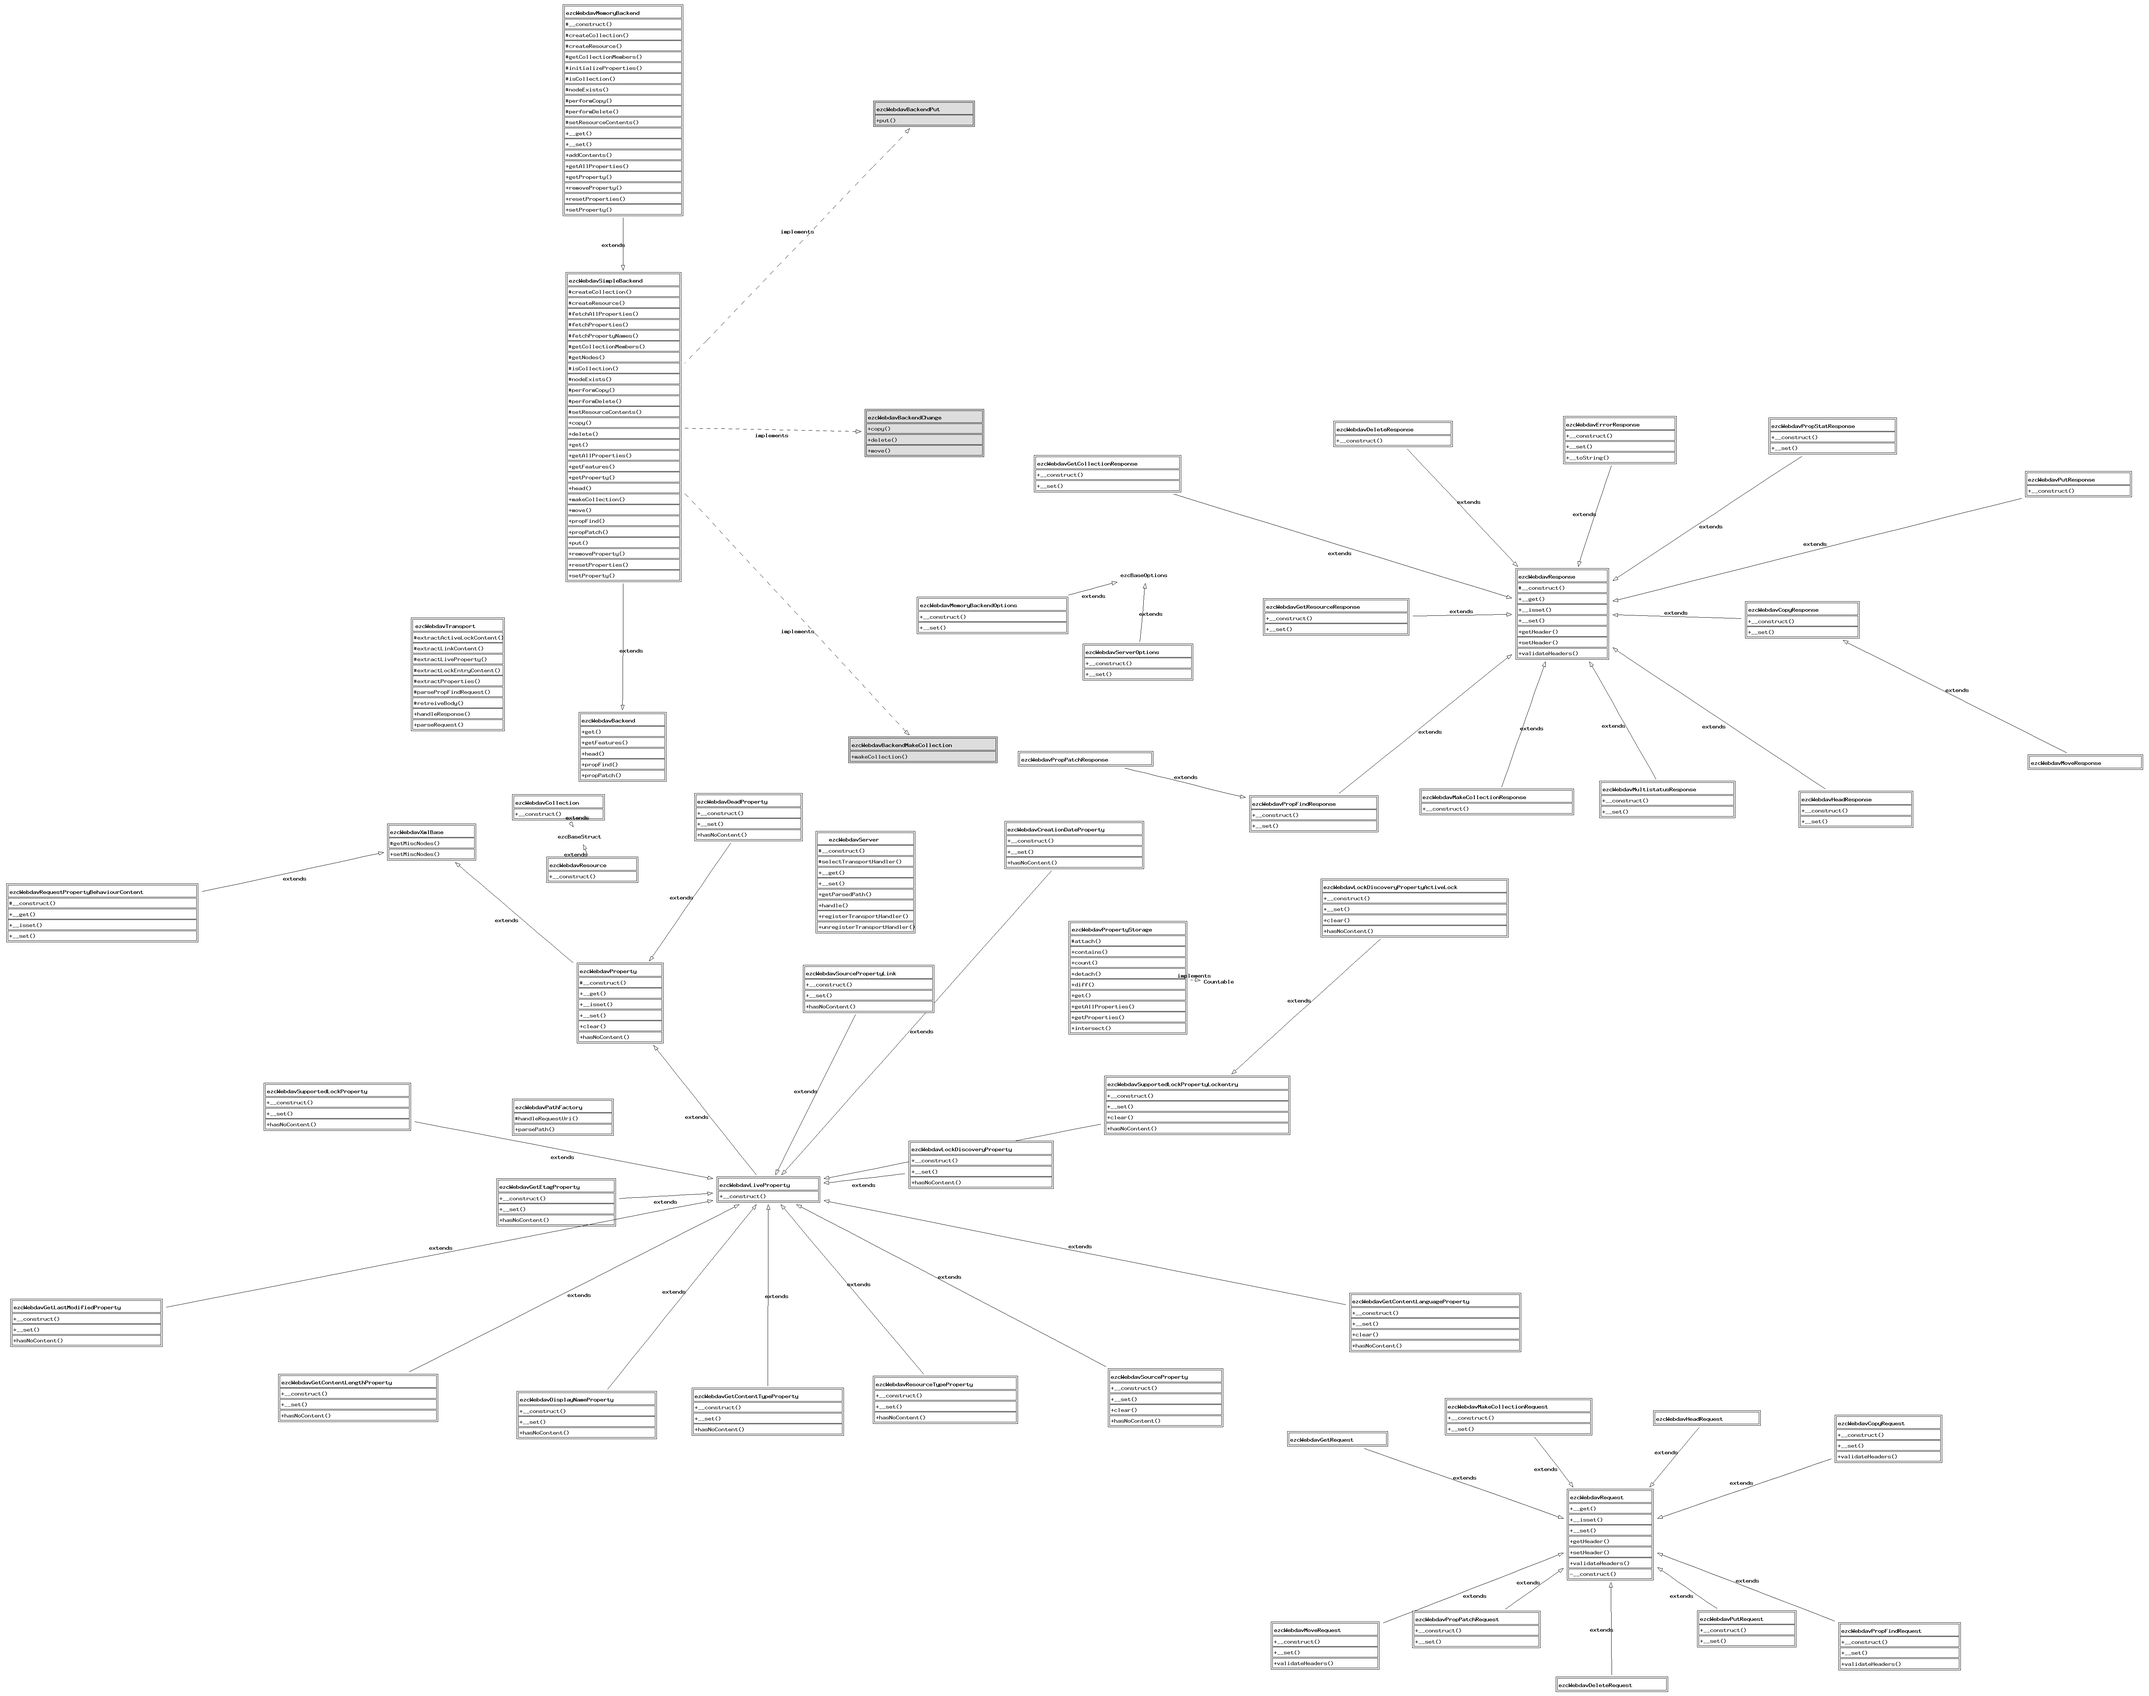
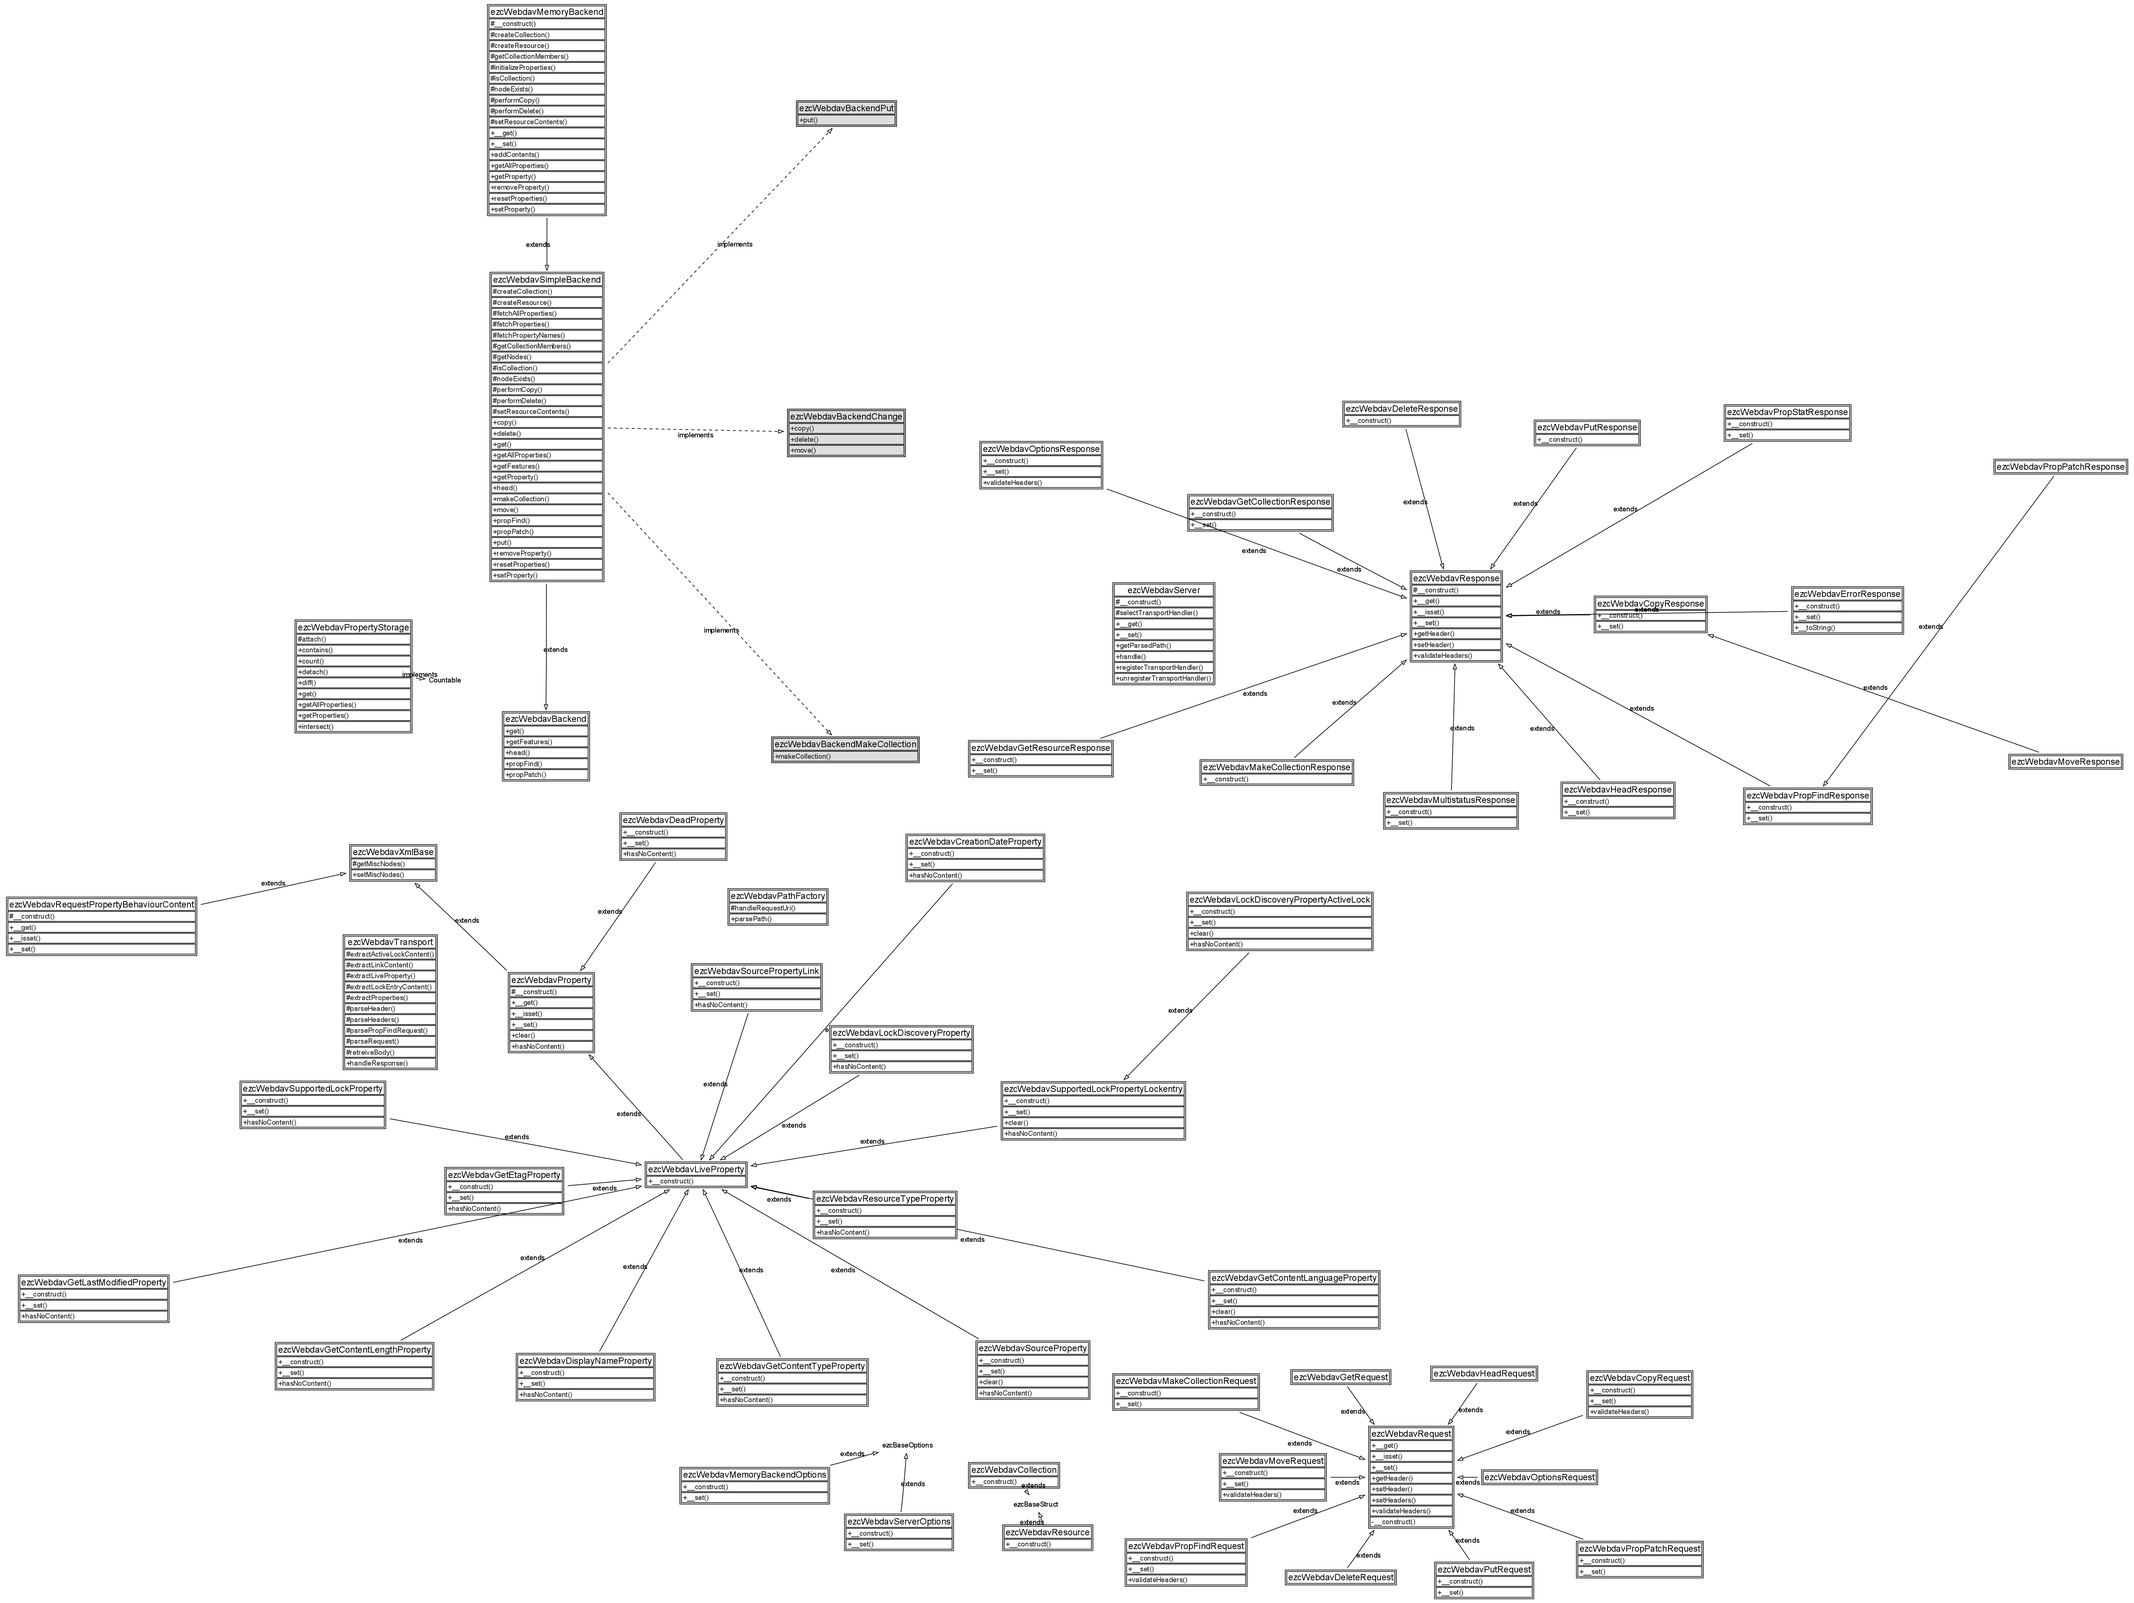
- Added request and response classes for the OPTIONS request.

diff --git a/tests/response_options_test.php b/tests/response_options_test.php
@@ -1,0 +1,214 @@
+<?php
+/**
+ * Basic test cases for the error response class.
+ *
+ * @package Webdav
+ * @subpackage Tests
+ * @version //autogentag//
+ * @copyright Copyright (C) 2005-2007 eZ systems as. All rights reserved.
+ * @license http://ez.no/licenses/new_bsd New BSD License
+ */
+
+/**
+ * Reqiuire base test
+ */
+require_once 'test_case.php';
+
+/**
+ * Tests for ezcWebdavErrorResonse class.
+ * 
+ * @package Webdav
+ * @subpackage Tests
+ */
+class ezcWebdavOptionsResponseTest extends ezcWebdavTestCase
+{
+	public static function suite()
+	{
+		return new PHPUnit_Framework_TestSuite( 'ezcWebdavOptionsResponseTest' );
+	}
+
+    public function testResourceOptionsUnknownProperty()
+    {
+        $response = new ezcWebdavOptionsResponse(
+            new ezcWebdavResource(
+                '/path',
+                new ezcWebdavPropertyStorage()
+            )
+        );
+
+        try
+        {
+            // Read access
+            $response->unknownProperty;
+        }
+        catch ( ezcBasePropertyNotFoundException $e )
+        {
+            return true;
+        }
+
+        $this->fail( 'Expected ezcBasePropertyNotFoundException.' );
+    }
+
+    public function testResourceSetUnknownProperty()
+    {
+        $response = new ezcWebdavOptionsResponse(
+            new ezcWebdavResource(
+                '/path',
+                new ezcWebdavPropertyStorage()
+            )
+        );
+
+        try
+        {
+            $response->unknownProperty = 42;
+        }
+        catch ( ezcBasePropertyNotFoundException $e )
+        {
+            return true;
+        }
+
+        $this->fail( 'Expected ezcBasePropertyNotFoundException.' );
+    }
+
+    public function testCollectionOptionsUnknownProperty()
+    {
+        $response = new ezcWebdavOptionsResponse(
+            new ezcWebdavCollection(
+                '/path',
+                new ezcWebdavPropertyStorage(),
+                array()
+            )
+        );
+
+        try
+        {
+            // Read access
+            $response->unknownProperty;
+        }
+        catch ( ezcBasePropertyNotFoundException $e )
+        {
+            return true;
+        }
+
+        $this->fail( 'Expected ezcBasePropertyNotFoundException.' );
+    }
+
+    public function testCollectionSetUnknownProperty()
+    {
+        $response = new ezcWebdavOptionsResponse(
+            new ezcWebdavCollection(
+                '/path',
+                new ezcWebdavPropertyStorage(),
+                array()
+            )
+        );
+
+        try
+        {
+            $response->unknownProperty = 42;
+        }
+        catch ( ezcBasePropertyNotFoundException $e )
+        {
+            return true;
+        }
+
+        $this->fail( 'Expected ezcBasePropertyNotFoundException.' );
+    }
+
+    public function testResourceSetPropertyResource()
+    {
+        $response = new ezcWebdavOptionsResponse(
+            $resource = new ezcWebdavResource(
+                '/path',
+                new ezcWebdavPropertyStorage()
+            )
+        );
+
+        $this->assertSame(
+            $resource,
+            $response->resource,
+            'Wrong default value for property resource in class ezcWebdavOptionsResponse.'
+        );
+
+        try
+        {
+            $response->resource = 200;
+        }
+        catch ( ezcBaseValueException $e )
+        {
+            return true;
+        }
+
+        $this->fail( 'Expected ezcBaseValueException.' );
+    }
+
+    public function testValidateHeadersSuccess()
+    {
+        $response = new ezcWebdavOptionsResponse(
+            $resource = new ezcWebdavResource(
+                '/path',
+                new ezcWebdavPropertyStorage()
+            )
+        );
+
+        $response->validateHeaders();
+        $this->assertEquals(
+            '1, 2, 1#extended',
+            $response->getHeader( 'DAV' )
+        );
+
+        $response->setHeader( 'DAV', '1, 1#extended' );
+
+        $response->validateHeaders();
+        $this->assertEquals(
+            '1, 1#extended',
+            $response->getHeader( 'DAV' )
+        );
+
+        $response->setHeader( 'DAV', '1   ,    2,1#extended' );
+
+        $response->validateHeaders();
+        $this->assertEquals(
+            '1, 2, 1#extended',
+            $response->getHeader( 'DAV' )
+        );
+
+        $response->setHeader( 'DAV', '1' );
+
+        $response->validateHeaders();
+        $this->assertEquals(
+            '1',
+            $response->getHeader( 'DAV' )
+        );
+    }
+
+    public function testValidateHeadersFailure()
+    {
+        $response = new ezcWebdavOptionsResponse(
+            $resource = new ezcWebdavResource(
+                '/path',
+                new ezcWebdavPropertyStorage()
+            )
+        );
+
+        $response->setHeader( 'DAV', null );
+
+        try
+        {
+            $response->validateHeaders();
+            $this->fail( "Exception not thrown on missing header 'DAV'." );
+        }
+        catch ( ezcWebdavMissingHeaderException $e ) {}
+
+        $response->setHeader( 'DAV', '1, 2#extended' );
+
+        try
+        {
+            $response->validateHeaders();
+            $this->fail( "Exception not thrown on invalid header 'DAV'." );
+        }
+        catch ( ezcWebdavInvalidHeaderException $e ) {}
+    }
+
+}
+?>

diff --git a/src/response/options.php b/src/response/options.php
@@ -1,0 +1,115 @@
+<?php
+/**
+ * File containing the class representing a OPTIONS response on a resource from
+ * the webdav server.
+ *
+ * @package Webdav
+ * @version //autogentag//
+ * @copyright Copyright (C) 2005-2007 eZ systems as. All rights reserved.
+ * @license http://ez.no/licenses/new_bsd New BSD License
+ */
+/**
+ * Class used to answer OPTIONS responses on a resource by the webdav backend.
+ *
+ * @version //autogentag//
+ * @package Webdav
+ * @copyright Copyright (C) 2005-2007 eZ systems as. All rights reserved.
+ * @license http://ez.no/licenses/new_bsd New BSD License
+ */
+class ezcWebdavOptionsResponse extends ezcWebdavResponse
+{
+
+    const VERSION_ONE = '1';
+    const VERSION_TWO = '2';
+    const VERSION_ONE_EXTENDED = '1#extended';
+
+    /**
+     * Construct options response.
+     * Construct options response indicating supported version numbers.
+     * 
+     * @param mixed $resource 
+     * @return void
+     */
+    public function __construct( $resource )
+    {
+        parent::__construct( ezcWebdavResponse::STATUS_200 );
+
+        $this->resource = $resource;
+
+        // @TODO: Check for correctness
+        $this->headers['DAV'] = '1, 2, 1#extended';
+    }
+
+    /**
+     * Sets a property.
+     * This method is called when an property is to be set.
+     * 
+     * @param string $propertyName The name of the property to set.
+     * @param mixed $propertyValue The property value.
+     * @ignore
+     *
+     * @throws ezcBasePropertyNotFoundException
+     *         if the given property does not exist.
+     * @throws ezcBaseValueException
+     *         if the value to be assigned to a property is invalid.
+     * @throws ezcBasePropertyPermissionException
+     *         if the property to be set is a read-only property.
+     */
+    public function __set( $propertyName, $propertyValue )
+    {
+        switch ( $propertyName )
+        {
+            case 'resource':
+                if ( ( ! $propertyValue instanceof ezcWebdavResource ) &&
+                     ( ! $propertyValue instanceof ezcWebdavCollection ) )
+                {
+                    throw new ezcBaseValueException( $propertyName, $propertyValue, 'ezcWebdavResource or ezcWebdavCollection' );
+                }
+
+                $this->properties[$propertyName] = $propertyValue;
+                break;
+
+            default:
+                parent::__set( $propertyName, $propertyValue );
+        }
+    }
+
+    /**
+     * Validates the headers set in this request.
+     * This method validates that all required headers are available and that
+     * all feasible headers for this request have valid values.
+     *
+     * @return void
+     *
+     * @throws ezcWebdavMissingHeaderException
+     *         if a required header is missing.
+     * @throws ezcWebdavInvalidHeaderException
+     *         if a header is present, but its content does not validate.
+     */
+    public function validateHeaders()
+    {
+        if ( isset( $this->headers['DAV'] ) === false )
+        {
+            throw new ezcWebdavMissingHeaderException( 'DAV' );
+        }
+        $dav = array_map( 'trim', explode( ',', $this->headers['DAV'] ) );
+        foreach ( $dav as $number )
+        {
+            if ( $number !== self::VERSION_ONE && $number !== self::VERSION_TWO && $number !== self::VERSION_ONE_EXTENDED )
+            {
+                throw new ezcWebdavInvalidHeaderException(
+                    'DAV',
+                    $this->headers['DAV'],
+                    'Komponents must be ezcWebdavOptionsResponse::VERSION_ONE, ezcWebdavOptionsResponse::VERSION_TWO or ezcWebdavOptionsResponse::VERSION_ONE_EXTENDED'
+                );
+            }
+        }
+        // Unified spaces
+        $this->headers['DAV'] = implode( ', ', $dav );
+        
+        // Validate common HTTP/WebDAV headers
+        parent::validateHeaders();
+    }
+}
+
+?>

diff --git a/tests/suite.php b/tests/suite.php
@@ -50,6 +50,7 @@ require_once 'request_content_property_behaviour_test.php';
 
 require_once 'response_error_test.php';
 require_once 'response_get_test.php';
+require_once 'response_options_test.php';
 require_once 'response_test.php';
 
 require_once 'server_options_test.php';
@@ -79,6 +80,7 @@ class ezcWebdavSuite extends PHPUnit_Framework_TestSuite
         $this->addTest( ezcWebdavDisplayNamePropertyTest::suite() );
         $this->addTest( ezcWebdavErrorResonseTest::suite() );
         $this->addTest( ezcWebdavGetResponseTest::suite() );
+        $this->addTest( ezcWebdavOptionsResponseTest::suite() );
         $this->addTest( ezcWebdavDeadPropertyTest::suite() );
         $this->addTest( ezcWebdavGetContentLanguagePropertyTest::suite() );
         $this->addTest( ezcWebdavGetContentLengthPropertyTest::suite() );

diff --git a/src/webdav_autoload.php b/src/webdav_autoload.php
@@ -60,6 +60,8 @@ return array(
     'ezcWebdavMoveRequest'                     => 'Webdav/request/move.php',
     'ezcWebdavMoveResponse'                    => 'Webdav/response/move.php',
     'ezcWebdavMultistatusResponse'             => 'Webdav/response/multistatus.php',
+    'ezcWebdavOptionsRequest'                  => 'Webdav/request/options.php',
+    'ezcWebdavOptionsResponse'                 => 'Webdav/response/options.php',
     'ezcWebdavPathFactory'                     => 'Webdav/path_factory.php',
     'ezcWebdavPropFindRequest'                 => 'Webdav/request/propfind.php',
     'ezcWebdavPropPatchRequest'                => 'Webdav/request/proppatch.php',

diff --git a/src/request/options.php b/src/request/options.php
@@ -1,0 +1,21 @@
+<?php
+/**
+ * File containing the class representing a OPTIONS request to the WebDAV server.
+ *
+ * @package Webdav
+ * @version //autogentag//
+ * @copyright Copyright (C) 2005-2007 eZ systems as. All rights reserved.
+ * @license http://ez.no/licenses/new_bsd New BSD License
+ */
+/**
+ * Struct-like class representing all relevant information about a webdav OPTIONS
+ * request.
+ *
+ * @version //autogentag//
+ * @package Webdav
+ */
+class ezcWebdavOptionsRequest extends ezcWebdavRequest
+{
+}
+
+?>
